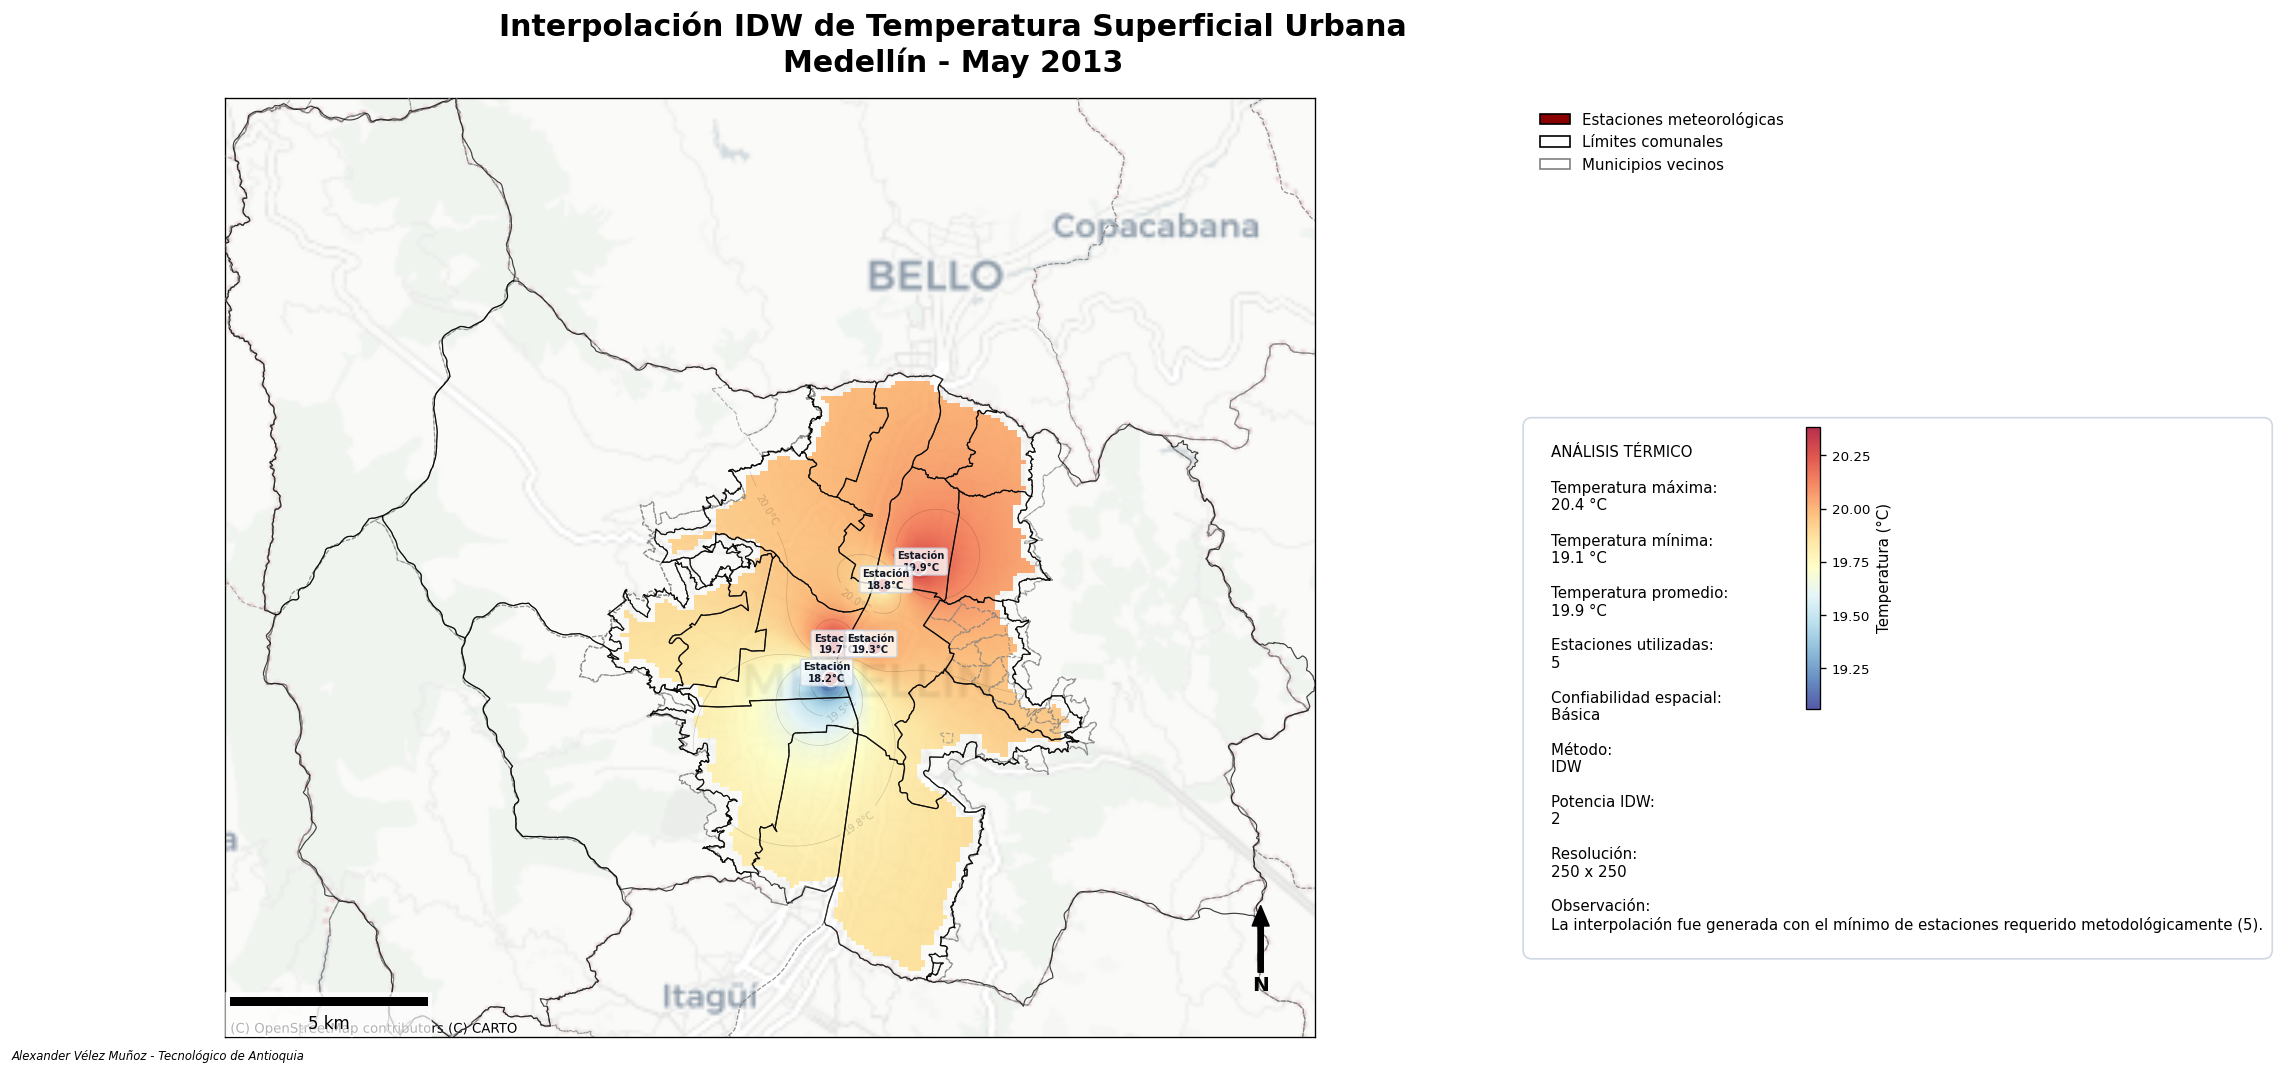
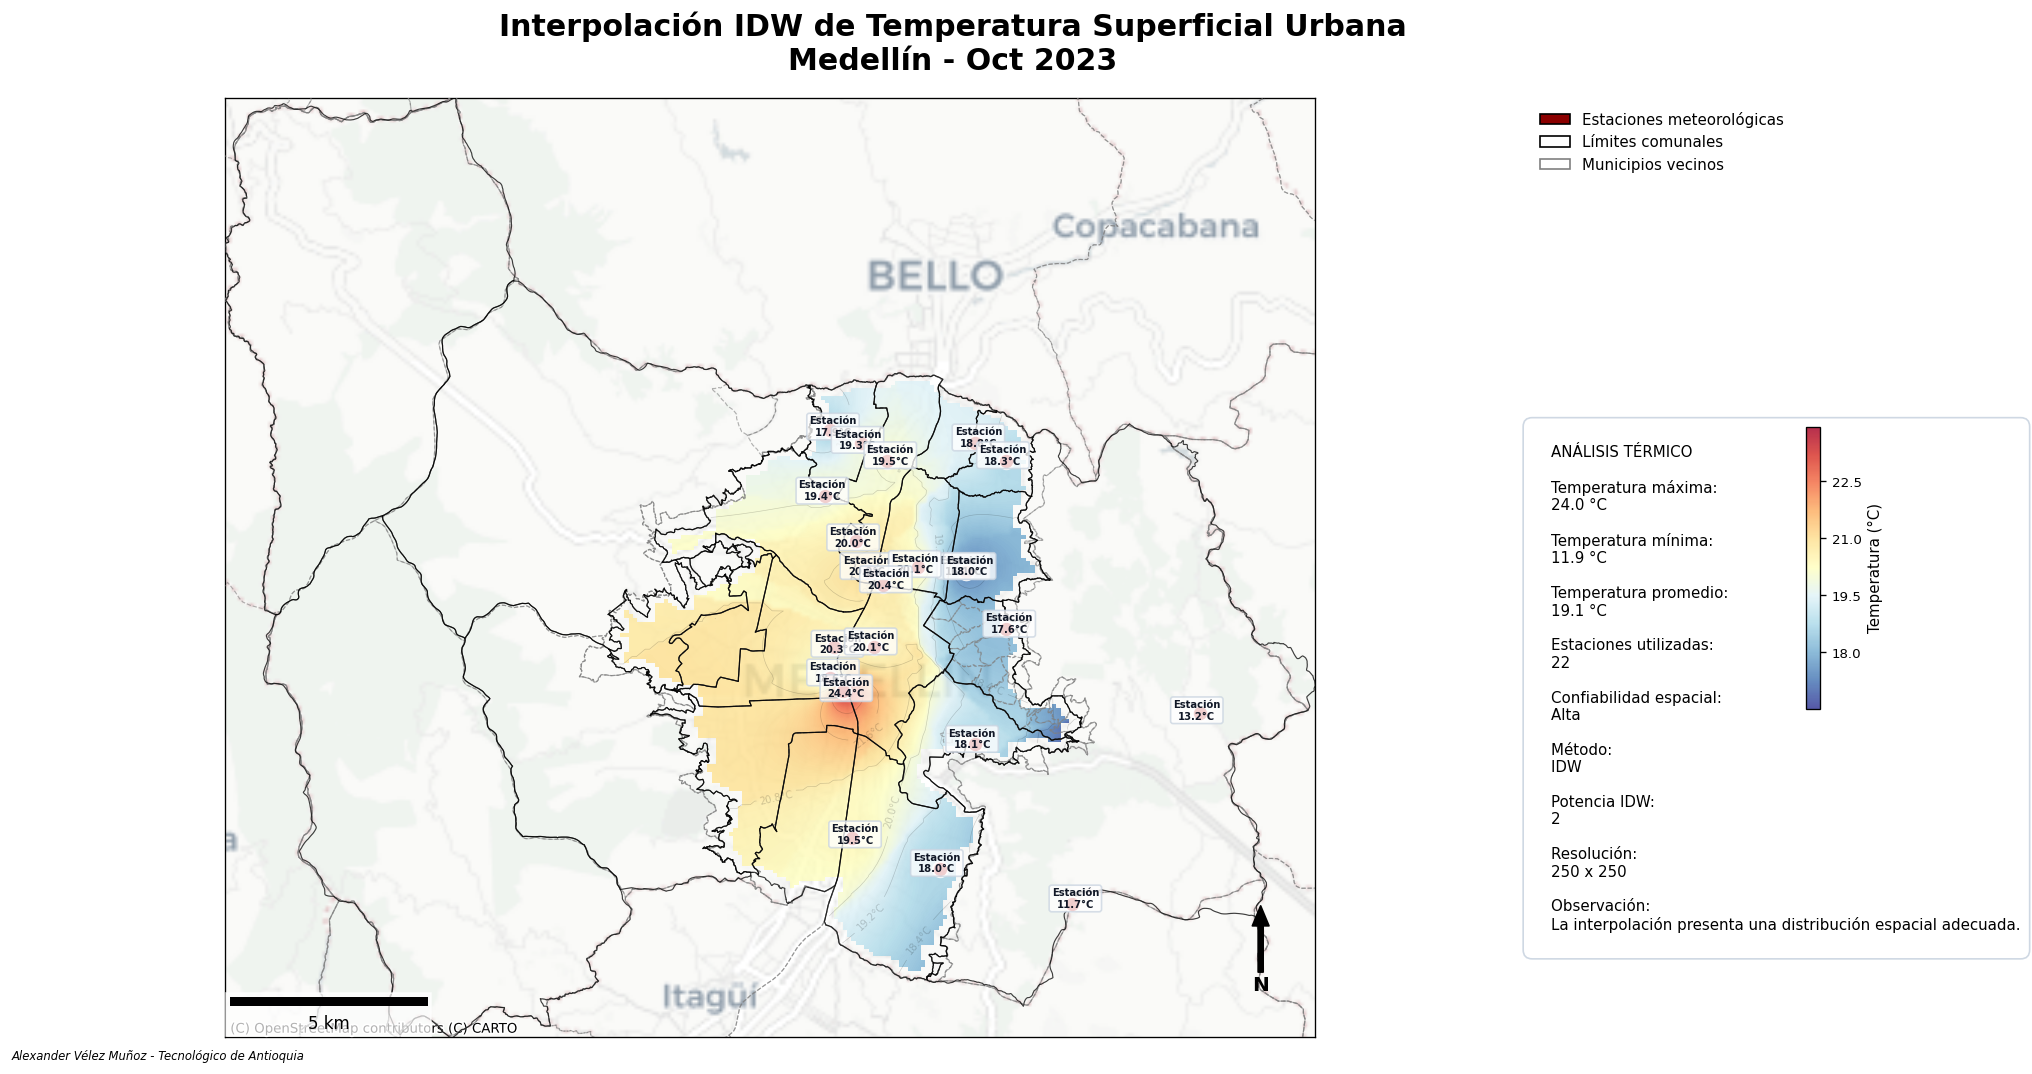
Sistema híbrido funcionando

diff --git a/templates/mapa_idw.html b/templates/mapa_idw.html
@@ -628,6 +628,56 @@
 
         </div>
 
+            <div class="panel">
+
+        <h2 style="margin-bottom:20px;">
+            Ficha Técnica de los Datos
+        </h2>
+
+        <table style="
+            width:100%;
+            border-collapse:collapse;
+        ">
+
+            <tr>
+                <td><b>Fuente histórica</b></td>
+                <td>Base de datos climática local</td>
+            </tr>
+
+            <tr>
+                <td><b>Fuente tiempo real</b></td>
+                <td>API SIATA mediante DOI</td>
+            </tr>
+
+            <tr>
+                <td><b>Variable analizada</b></td>
+                <td>Temperatura (°C)</td>
+            </tr>
+
+            <tr>
+                <td><b>Método de interpolación</b></td>
+                <td>IDW (Inverse Distance Weighting)</td>
+            </tr>
+
+            <tr>
+                <td><b>Estaciones utilizadas</b></td>
+                <td>{{ cantidad_estaciones }}</td>
+            </tr>
+
+            <tr>
+                <td><b>Confiabilidad espacial</b></td>
+                <td>{{ nivel_confianza }}</td>
+            </tr>
+
+            <tr>
+                <td><b>Observación</b></td>
+                <td>{{ observacion }}</td>
+            </tr>
+
+        </table>
+
+    </div>
+
         <!-- ===================================================== -->
         <!-- INFORMACIÓN -->
         <!-- ===================================================== -->
@@ -652,14 +702,15 @@
             <div class="card">
 
                 <h3>
-                    Procesamiento geoespacial
+                    Integración SIATA
                 </h3>
 
                 <p>
-                    El análisis espacial es realizado mediante
-                    Django, GeoPandas, NumPy y SciPy,
-                    integrando procesamiento SIG
-                    y visualización cartográfica.
+                    El sistema consulta información
+                    meteorológica mediante DOI de estaciones
+                    SIATA, permitiendo complementar los datos
+                    históricos con observaciones recientes
+                    para mejorar el análisis climático.
                 </p>
 
             </div>

diff --git a/clima/views.py b/clima/views.py
@@ -254,8 +254,8 @@ def generar_mapa(request):
         temp = None
 
         try:
-            respuesta = get_temp_siata(r.estacion.doi)
-            print("SIATA DEBUG:", r.estacion.nombre, temp)
+            respuesta = obtener_ultima_temperatura(r.estacion.doi)
+            
             if isinstance(respuesta, dict):
                 temp = respuesta.get("temperatura")
             elif isinstance(respuesta, (int, float)):
@@ -1127,5 +1127,4 @@ def obtener_doi_temperatura():
 
     # ejemplo: tomar el primero
     return items[0]["global_id"]
-
 